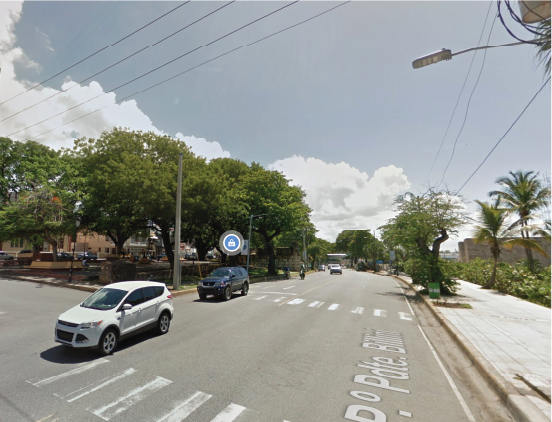
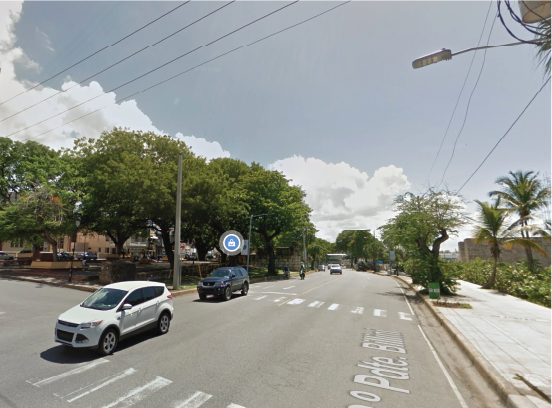
Swap images 2-3 and 4-5 in project 03

diff --git a/list-project/03.html b/list-project/03.html
@@ -367,16 +367,16 @@
 
     <div class="image-row">
       <img src="../Images/p3/Asset 224.png" alt="Urban Analysis 1">
-      <img src="../Images/p3/Asset 225.png" alt="Urban Analysis 2">
+      <img src="../Images/p3/Asset 226.png" alt="Urban Analysis 2">
     </div>
 
     <div class="image-row">
-      <img src="../Images/p3/Asset 226.png" alt="Urban Analysis 3">
-      <img src="../Images/p3/Asset 227.png" alt="Urban Analysis 4">
+      <img src="../Images/p3/Asset 225.png" alt="Urban Analysis 3">
+      <img src="../Images/p3/Asset 228.png" alt="Urban Analysis 4">
     </div>
 
     <div class="image-row">
-      <img src="../Images/p3/Asset 228.png" alt="Urban Analysis 5">
+      <img src="../Images/p3/Asset 227.png" alt="Urban Analysis 5">
       <img src="../Images/p3/Asset 229.png" alt="Urban Analysis 6">
     </div>
 
